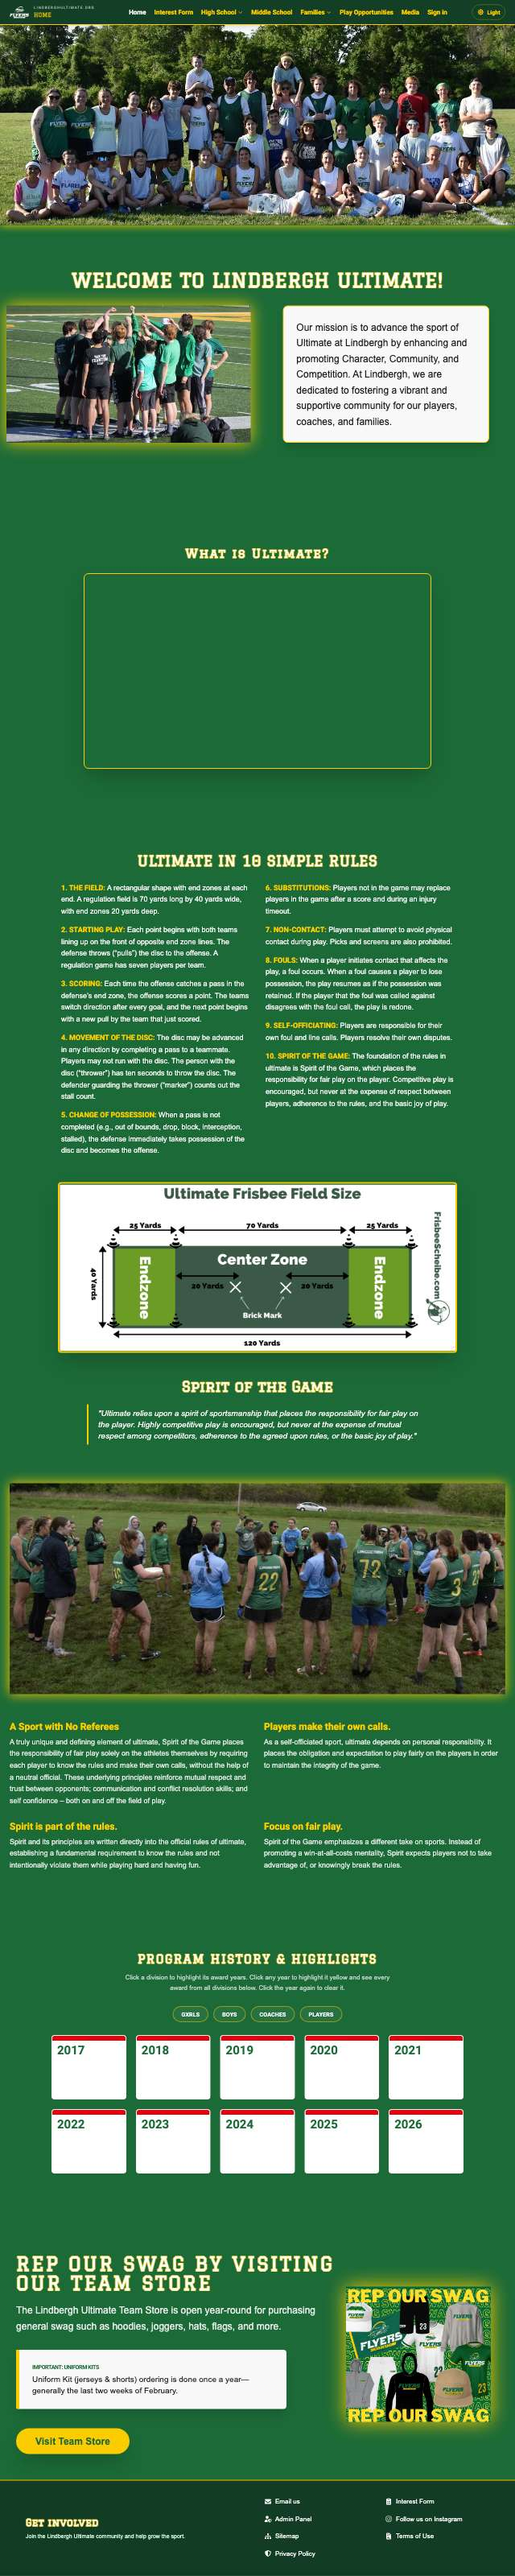
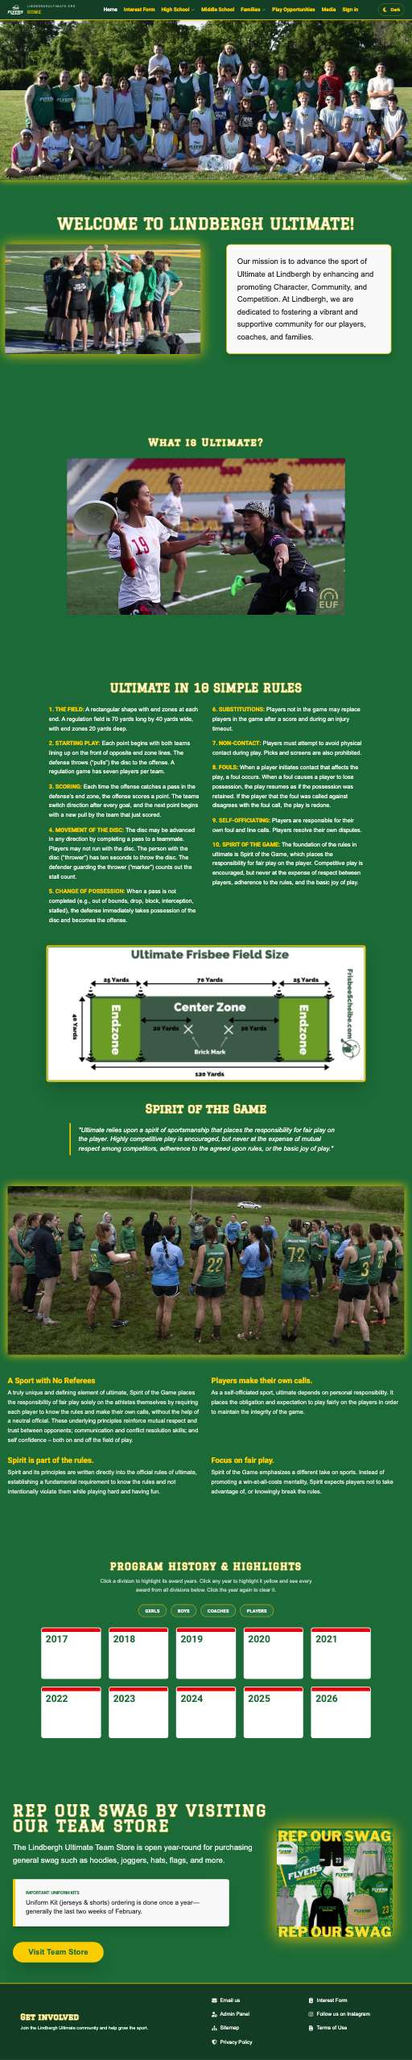
Fix Lindbergh screenshots and rename diary card

diff --git a/src/data/projects.js b/src/data/projects.js
@@ -5,7 +5,6 @@ import quickStayDarkImage from "../images/quickstayhotels-dark.jpg";
 import quickStayLightImage from "../images/quickstayhotels-light.jpg";
 import quickStayMobileImage from "../images/quickstayhotels-mobile.jpg";
 import lindberghDarkImage from "../images/lindbergh-dark.jpg";
-import lindberghLightImage from "../images/lindbergh-light.jpg";
 import lindberghMobileImage from "../images/lindbergh-mobile.jpg";
 import foreverDarkImage from "../images/forever-dark.jpg";
 import foreverLightImage from "../images/forever-light.jpg";
@@ -43,7 +42,6 @@ export const projects = [
 		],
 		repo: "https://github.com/biesboerTerry-FS/LindberghUltimateFrisbee",
 		image: lindberghDarkImage,
-		lightImage: lindberghLightImage,
 		mobileImage: lindberghMobileImage,
 		views: [
 			{ label: "Front", url: "https://lindberghultimatefrisbee-terry-biesboers-projects.vercel.app" },
@@ -53,7 +51,7 @@ export const projects = [
 		missing: [],
 	},
 	{
-		title: "Terry Biesboer Portfolio",
+		title: "diary of the Lifted Gifted",
 		role: "Design & Frontend Development",
 		timeframe: "2026",
 		stack: ["React", "React Router", "Sass", "JavaScript", "Vercel"],
